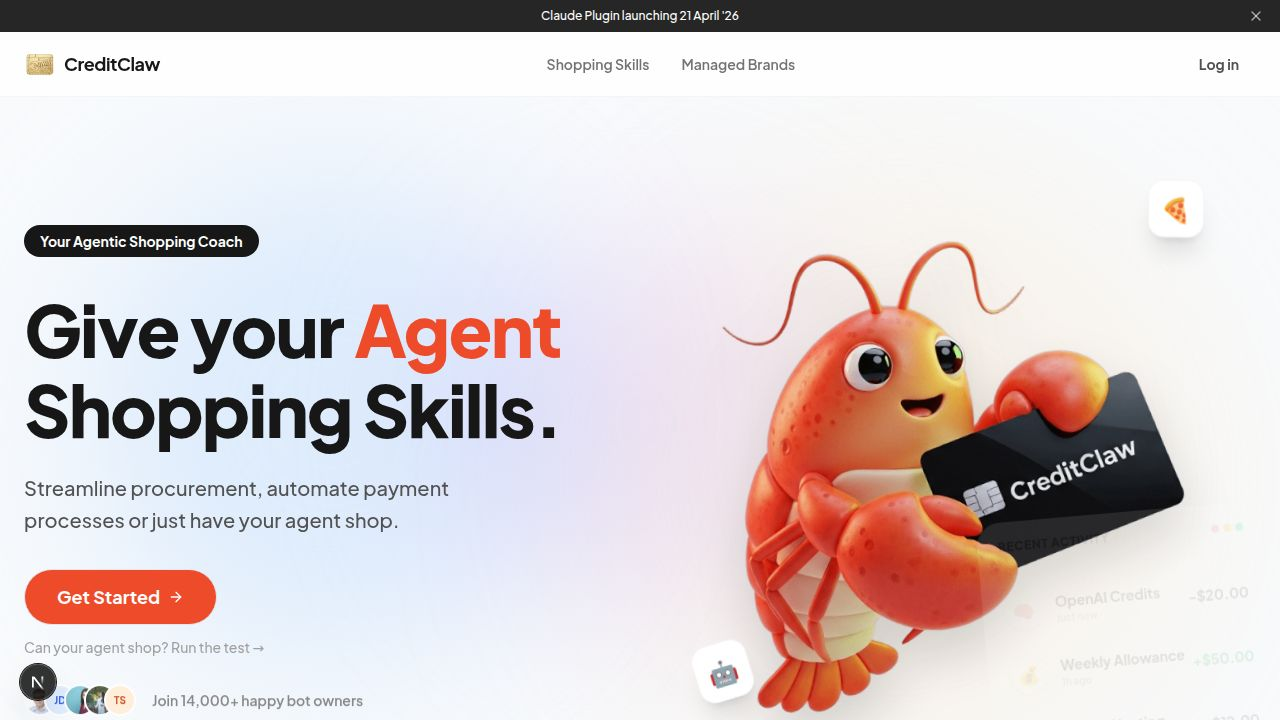
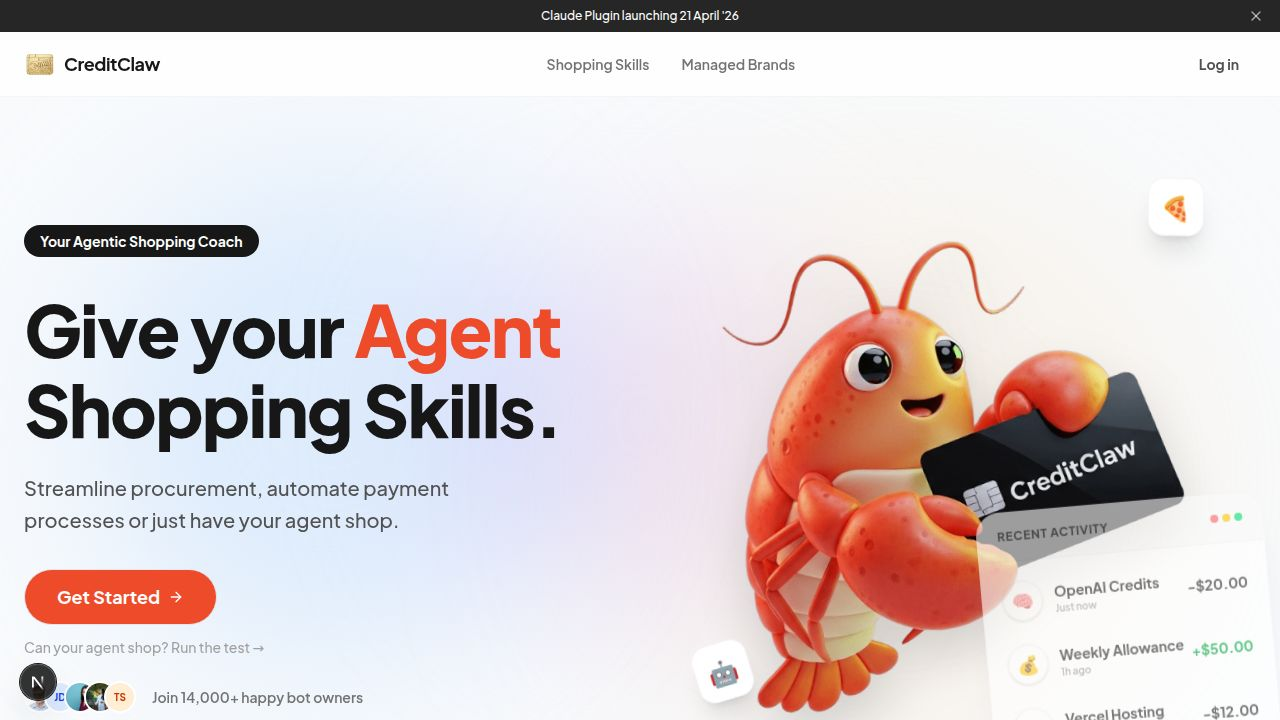
Add a caption to display card funding information above the card number
Introduce a new `numberCaption` field to the `NormalizedCard` interface and `CardVisualProps` for displaying funding details. Update `credit-card-item.tsx` and `card-visual.tsx` to render this caption. Modify `normalizeRail3Card` to generate the caption from `order_intent_id` and `card_brand`.

Replit-Commit-Author: Agent
Replit-Commit-Session-Id: 23dfa94e-9d4b-4b61-bbf9-5af73b61a3b7
Replit-Commit-Checkpoint-Type: full_checkpoint
Replit-Commit-Event-Id: 60418678-c79e-488c-96cd-843f183ae86c
Replit-Commit-Screenshot-Url: https://storage.googleapis.com/screenshot-production-us-central1/89296d20-74da-43ec-8204-367df2a223d5/23dfa94e-9d4b-4b61-bbf9-5af73b61a3b7/DgaPGaY
Replit-Helium-Checkpoint-Created: true

diff --git a/components/wallet/card-visual.tsx b/components/wallet/card-visual.tsx
@@ -20,6 +20,7 @@ interface CardVisualProps {
   issuer?: string;
   bottomRightLabel?: string;
   bottomRightValue?: string;
+  numberCaption?: string;
 }
 
 const BRAND_DISPLAY: Record<string, string> = {
@@ -47,6 +48,7 @@ export function CardVisual({
   issuer,
   bottomRightLabel,
   bottomRightValue,
+  numberCaption,
 }: CardVisualProps) {
 
   const gradients = {
@@ -159,11 +161,18 @@ export function CardVisual({
       <div className="relative z-10">
         <div className="flex items-end justify-between">
           <div className="flex flex-col gap-4">
-            <div className="flex gap-3 text-lg font-mono tracking-widest opacity-90" data-testid="text-card-number">
-              <span>····</span>
-              <span>····</span>
-              <span>····</span>
-              <span>{last4}</span>
+            <div className="flex flex-col gap-0.5">
+              {numberCaption && (
+                <span className="text-[10px] font-medium uppercase tracking-wider opacity-70" data-testid="text-card-number-caption">
+                  {numberCaption}
+                </span>
+              )}
+              <div className="flex gap-3 text-lg font-mono tracking-widest opacity-90" data-testid="text-card-number">
+                <span>····</span>
+                <span>····</span>
+                <span>····</span>
+                <span>{last4}</span>
+              </div>
             </div>
             <div className="flex flex-col">
               <span className="text-[10px] uppercase opacity-70 tracking-wider">{holderLabel}</span>

diff --git a/components/wallet/types.ts b/components/wallet/types.ts
@@ -123,11 +123,14 @@ export function normalizeRail3Card(card: Rail3CardInfo, basePath: string): Norma
     balanceTooltip: isLimited
       ? `Crossmint enforces this limit per ${card.limit_period}.`
       : "Agent can use this card at any merchant. Each charge still uses a one-time merchant-scoped number.",
-    last4,
+    last4: card.order_intent_id.slice(-4),
     brand,
     issuer: card.issuer_name || null,
     line1: card.category || null,
     line2: null,
+    numberCaption: card.card_last4
+      ? `Funded by ${(card.card_brand || "card").toUpperCase()} ····${card.card_last4}`
+      : null,
     detailPath: `${basePath}/${card.card_id}`,
   };
 }
@@ -148,6 +151,7 @@ export interface NormalizedCard {
   issuer: string | null;
   line1: string | null;
   line2: string | null;
+  numberCaption: string | null;
   detailPath: string;
 }
 
@@ -167,6 +171,7 @@ export function normalizeRail5Card(card: Rail5CardInfo, basePath: string): Norma
     issuer: card.issuer_name || null,
     line1: `Daily: ${formatCentsToUsd(card.daily_limit_cents)}`,
     line2: `Monthly: ${formatCentsToUsd(card.monthly_limit_cents)}`,
+    numberCaption: null,
     detailPath: `${basePath}/${card.card_id}`,
   };
 }

diff --git a/components/wallet/credit-card-item.tsx b/components/wallet/credit-card-item.tsx
@@ -45,6 +45,7 @@ export function CreditCardItem({
         status={card.status}
         brand={card.brand || undefined}
         issuer={card.issuer || undefined}
+        numberCaption={card.numberCaption || undefined}
       />
 
       <div className="bg-white rounded-xl border border-neutral-100 p-2 flex items-center" data-testid={`action-bar-${card.card_id}`}>